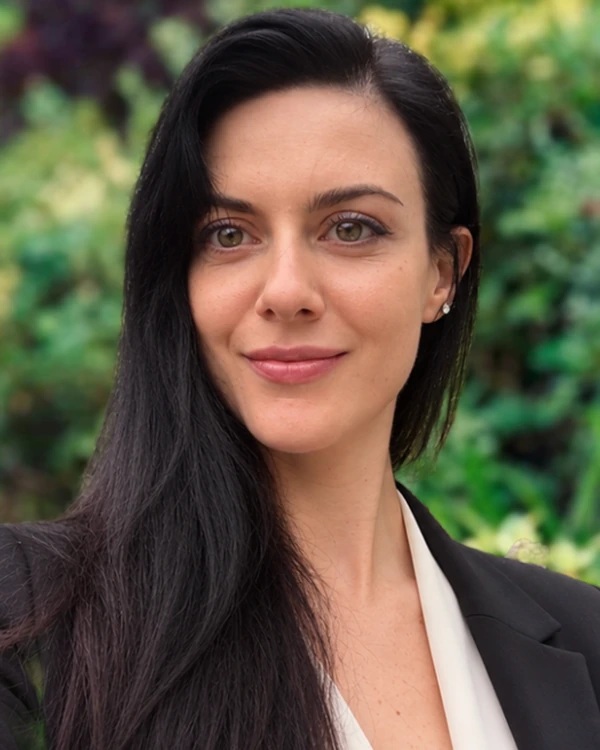
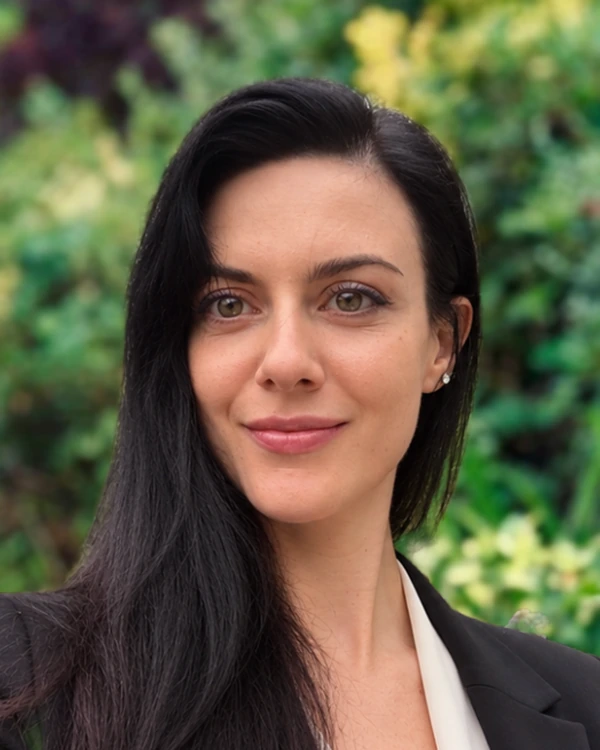
Correct natural portrait depth and clinical head-and-shoulder framing

diff --git a/app3.js b/app3.js
@@ -1,23 +1,23 @@
 const team=`${header('Meet Our Multi-Disciplinary Clinical Team','Autism Assessments Farnham brings together experienced professionals from paediatrics, psychology, speech and language therapy, occupational therapy and mental health nursing. Team members are registered with the relevant professional regulator, including HCPC, GMC or NMC as appropriate. Lisa Mayatt is the main point of contact throughout the assessment journey.')}
 <section class="section team-page">
   <div class="team-profile" id="lisa-mayatt">
-    <img src="/images/clinicians/lisa-mayatt.webp?v=20261123depth3" alt="Lisa Mayatt">
+    <img src="/images/clinicians/lisa-mayatt.webp?v=20261123depth4" alt="Lisa Mayatt">
     <div class="team-profile-copy"><div class="eyebrow">Founder & Clinical Director</div><h2>Lisa Mayatt</h2><h3>Highly Specialist Speech and Language Therapist</h3><p>Lisa founded Autism Assessments Farnham and remains the main point of contact for families throughout the assessment process. Her background includes extensive NHS and Local Authority work, ADOS-2 assessment since 2016, and training in ADI-R, 3Di and ACE. Her specialist interests include PDA and autism presentations in girls and young women. She also undertakes expert-witness and education work.</p></div>
   </div>
   <div class="team-profile" id="dr-gopal-venkat">
-    <img src="/images/clinicians/dr-gopal-venkat.webp?v=20261123depth3" alt="Dr Gopal Venkat">
+    <img src="/images/clinicians/dr-gopal-venkat.webp?v=20261123depth4" alt="Dr Gopal Venkat">
     <div class="team-profile-copy"><h2>Dr Gopal Venkat, MD, FRCPCH</h2><h3>Consultant Neurodevelopmental Paediatrician</h3><p>Dr Gopal has more than 20 years of clinical experience in neurodevelopmental paediatrics, paediatric neurology and epilepsy. His work includes Autism, ADHD and developmental coordination difficulties. He is ADOS-2 trained and provides multidisciplinary assessments for children and young people, with a neuro-affirming and evidence-based approach.</p></div>
   </div>
   <div class="team-profile" id="dr-joseph-chukwu">
-    <img src="/images/clinicians/dr-joseph-chukwu.webp?v=20261123depth3" alt="Dr Joseph Chukwu">
+    <img src="/images/clinicians/dr-joseph-chukwu.webp?v=20261123depth4" alt="Dr Joseph Chukwu">
     <div class="team-profile-copy"><h2>Dr Joseph Chukwu</h2><h3>Consultant Neurodevelopmental Paediatrician</h3><p>Joseph is an NHS community paediatrician with extensive Autism and ADHD assessment experience. He is trained in ADOS-2, ADI-R and 3Di and has worked with Autism Assessments Farnham since its launch in 2022. He supports under-18 Autism and ADHD assessment pathways.</p></div>
   </div>
   <div class="team-profile" id="dr-aimee-hayter">
-    <img src="/images/clinicians/dr-aimee-hayter.webp?v=20261123depth3" alt="Dr Aimee Hayter">
+    <img src="/images/clinicians/dr-aimee-hayter.webp?v=20261123depth4" alt="Dr Aimee Hayter">
     <div class="team-profile-copy"><h2>Dr Aimee Hayter</h2><h3>Clinical Psychologist</h3><p>Aimee has around 20 years of experience across academia, the NHS and private practice, working with neurodivergent people across the lifespan. She specialises in neuropsychology and provides psychological assessment, including ADOS-2, alongside consultation and intervention.</p></div>
   </div>
   <div class="team-profile" id="dr-daniela-di-basilio">
-    <img src="/images/clinicians/dr-daniela-di-basilio.webp?v=20261123depth3" alt="Dr Daniela Di Basilio">
+    <img src="/images/clinicians/dr-daniela-di-basilio.webp?v=20261123depth4" alt="Dr Daniela Di Basilio">
     <div class="team-profile-copy"><h2>Dr Daniela Di Basilio</h2><h3>Clinical Psychologist and Cognitive Behavioural Therapist</h3><p>Daniela has extensive experience in the assessment and treatment of a wide range of psychological and neurodevelopmental conditions. She is a qualified ADHD assessor and trained in the administration of ADOS-2 and ADI-R. Daniela jointly conducts comprehensive neurodevelopmental assessments and diagnostic formulations for children, adolescents and adults, integrating developmental history, clinical interviews and standardised assessment measures.</p><p>Alongside her clinical practice, Daniela is a Clinical Supervisor at the Priory and a Lecturer in Clinical Psychology at Lancaster University, where she teaches and supervises doctoral trainees. She is registered with the HCPC as a Practitioner Psychologist and is an accredited EMDR practitioner.</p><p>Daniela's clinical approach is evidence-based, collaborative and compassionate, with an emphasis on thorough assessment, individualised formulation and interventions tailored to each person's needs.</p></div>
   </div>
   <div class="team-profile team-profile-placeholder" id="nordette-small">
@@ -25,23 +25,23 @@ const team=`${header('Meet Our Multi-Disciplinary Clinical Team','Autism Assessm
     <div class="team-profile-copy"><div class="eyebrow">NMC Registered</div><h2>Nordette Small</h2><h3>Highly Specialist ADHD Nurse</h3><p>Nordette has a genuine passion for improving the lives of individuals and families affected by Attention Deficit Hyperactivity Disorder (ADHD). Alongside her clinical experience and specialist knowledge, Nordette is also a mother of two children diagnosed with ADHD, giving her valuable insight into the experiences of families navigating the challenges, uncertainties and emotions that can accompany an ADHD diagnosis.</p><p>Nordette strives to create a safe, supportive and non-judgemental environment where every individual feels valued, listened to and empowered to understand their ADHD and make informed decisions about their care. She believes that understanding ADHD requires more than knowing the diagnosis; it requires understanding the person and the family behind it.</p></div>
   </div>
   <div class="team-profile" id="karen-cooper">
-    <img src="/images/clinicians/karen-cooper.webp?v=20261123depth3" alt="Karen Cooper">
+    <img src="/images/clinicians/karen-cooper.webp?v=20261123depth4" alt="Karen Cooper">
     <div class="team-profile-copy"><h2>Karen Cooper</h2><h3>Highly Specialist Speech and Language Therapist & Autism Specialist</h3><p>Karen has around 25 years of experience across specialist education, the NHS and Local Authority services, including two decades in diagnostic multidisciplinary teams. She is trained in ADOS-2, ADI-R and ACE and supports joint autism assessments with children and young adults.</p></div>
   </div>
   <div class="team-profile" id="beccy-muggeridge">
-    <img src="/images/clinicians/beccy-muggeridge.webp?v=20261123depth3" alt="Beccy Muggeridge">
+    <img src="/images/clinicians/beccy-muggeridge.webp?v=20261123depth4" alt="Beccy Muggeridge">
     <div class="team-profile-copy"><h2>Beccy Muggeridge</h2><h3>Highly Specialist Speech and Language Therapist</h3><p>Beccy specialises in Autism and brain injury and has broad experience across Surrey education settings, specialist services, the NHS and multidisciplinary teams. Her roles have included The Children’s Trust, Great Ormond Street Hospital and Evelina London’s community autism assessment service.</p></div>
   </div>
   <div class="team-profile" id="deepika-sharma">
-    <img src="/images/clinicians/deepika-sharma.webp?v=20261123depth3" alt="Deepika Sharma">
+    <img src="/images/clinicians/deepika-sharma.webp?v=20261123depth4" alt="Deepika Sharma">
     <div class="team-profile-copy"><h2>Deepika Sharma</h2><h3>Specialist Occupational Therapist</h3><p>Deepika has more than 20 years of clinical experience supporting children and young people with neurodevelopmental and developmental needs. She is ADOS-2 trained, works within the multidisciplinary team, and is developing further expertise in sensory integration.</p></div>
   </div>
   <div class="team-profile" id="jess-wilson">
-    <img src="/images/clinicians/jess-wilson.webp?v=20261123depth3" alt="Jess Wilson">
+    <img src="/images/clinicians/jess-wilson.webp?v=20261123depth4" alt="Jess Wilson">
     <div class="team-profile-copy"><h2>Jess Wilson</h2><h3>Occupational Therapist</h3><p>Jess specialises in neurodevelopmental needs, sensory processing and the impact of trauma. Her experience spans mainstream and specialist schools, clinics, homes and community settings. She has contributed to NHS autism diagnostic services and supports multidisciplinary ADOS-2 assessment work.</p></div>
   </div>
   <div class="team-profile" id="sarah-grieve">
-    <img src="/images/clinicians/sarah-grieve.webp?v=20261123depth3" alt="Sarah Grieve">
+    <img src="/images/clinicians/sarah-grieve.webp?v=20261123depth4" alt="Sarah Grieve">
     <div class="team-profile-copy"><h2>Sarah Grieve</h2><h3>Specialist Speech and Language Therapy Assistant & Clinical Administrator</h3><p>Sarah combines clinical administration with speech and language therapy support, helping coordinate appointments, documentation and the assessment process. She brings NHS and Local Authority experience and supports a calm, organised and neurodiversity-affirming service.</p></div>
   </div>
   <div class="team-profile team-profile-placeholder" id="new-clinician-coming-soon">

diff --git a/app1.js b/app1.js
@@ -74,17 +74,17 @@ const home=`
     <div class="clinician-carousel-shell">
       <button class="clinician-carousel-arrow clinician-carousel-prev" type="button" aria-label="Previous clinicians">‹</button>
       <div class="clinician-row clinician-carousel" tabindex="0" aria-label="Clinical team">
-        <a class="clinician-card" href="/our-team#lisa-mayatt" data-link><img src="/images/clinicians/lisa-mayatt.webp?v=20261123depth3" alt="Lisa Mayatt"><h4>Lisa Mayatt</h4><p>Founder, Clinical Director & Highly Specialist SLT</p></a>
-        <a class="clinician-card" href="/our-team#dr-gopal-venkat" data-link><img src="/images/clinicians/dr-gopal-venkat.webp?v=20261123depth3" alt="Dr Gopal Venkat"><h4>Dr Gopal Venkat</h4><p>Consultant Neurodevelopmental Paediatrician</p></a>
-        <a class="clinician-card" href="/our-team#dr-joseph-chukwu" data-link><img src="/images/clinicians/dr-joseph-chukwu.webp?v=20261123depth3" alt="Dr Joseph Chukwu"><h4>Dr Joseph Chukwu</h4><p>Consultant Neurodevelopmental Paediatrician</p></a>
-        <a class="clinician-card" href="/our-team#dr-aimee-hayter" data-link><img src="/images/clinicians/dr-aimee-hayter.webp?v=20261123depth3" alt="Dr Aimee Hayter"><h4>Dr Aimee Hayter</h4><p>Clinical Psychologist</p></a>
-        <a class="clinician-card" href="/our-team#dr-daniela-di-basilio" data-link><img src="/images/clinicians/dr-daniela-di-basilio.webp?v=20261123depth3" alt="Dr Daniela Di Basilio"><h4>Dr Daniela Di Basilio</h4><p>Clinical Psychologist & Cognitive Behavioural Therapist</p></a>
+        <a class="clinician-card" href="/our-team#lisa-mayatt" data-link><img src="/images/clinicians/lisa-mayatt.webp?v=20261123depth4" alt="Lisa Mayatt"><h4>Lisa Mayatt</h4><p>Founder, Clinical Director & Highly Specialist SLT</p></a>
+        <a class="clinician-card" href="/our-team#dr-gopal-venkat" data-link><img src="/images/clinicians/dr-gopal-venkat.webp?v=20261123depth4" alt="Dr Gopal Venkat"><h4>Dr Gopal Venkat</h4><p>Consultant Neurodevelopmental Paediatrician</p></a>
+        <a class="clinician-card" href="/our-team#dr-joseph-chukwu" data-link><img src="/images/clinicians/dr-joseph-chukwu.webp?v=20261123depth4" alt="Dr Joseph Chukwu"><h4>Dr Joseph Chukwu</h4><p>Consultant Neurodevelopmental Paediatrician</p></a>
+        <a class="clinician-card" href="/our-team#dr-aimee-hayter" data-link><img src="/images/clinicians/dr-aimee-hayter.webp?v=20261123depth4" alt="Dr Aimee Hayter"><h4>Dr Aimee Hayter</h4><p>Clinical Psychologist</p></a>
+        <a class="clinician-card" href="/our-team#dr-daniela-di-basilio" data-link><img src="/images/clinicians/dr-daniela-di-basilio.webp?v=20261123depth4" alt="Dr Daniela Di Basilio"><h4>Dr Daniela Di Basilio</h4><p>Clinical Psychologist & Cognitive Behavioural Therapist</p></a>
         <a class="clinician-card clinician-card-placeholder" href="/our-team#nordette-small" data-link><div class="clinician-initials" aria-hidden="true">NS</div><h4>Nordette Small</h4><p>Highly Specialist ADHD Nurse</p></a>
-        <a class="clinician-card" href="/our-team#karen-cooper" data-link><img src="/images/clinicians/karen-cooper.webp?v=20261123depth3" alt="Karen Cooper"><h4>Karen Cooper</h4><p>Highly Specialist SLT & Autism Specialist</p></a>
-        <a class="clinician-card" href="/our-team#beccy-muggeridge" data-link><img src="/images/clinicians/beccy-muggeridge.webp?v=20261123depth3" alt="Beccy Muggeridge"><h4>Beccy Muggeridge</h4><p>Highly Specialist Speech & Language Therapist</p></a>
-        <a class="clinician-card" href="/our-team#deepika-sharma" data-link><img src="/images/clinicians/deepika-sharma.webp?v=20261123depth3" alt="Deepika Sharma"><h4>Deepika Sharma</h4><p>Specialist Occupational Therapist</p></a>
-        <a class="clinician-card" href="/our-team#jess-wilson" data-link><img src="/images/clinicians/jess-wilson.webp?v=20261123depth3" alt="Jess Wilson"><h4>Jess Wilson</h4><p>Occupational Therapist</p></a>
-        <a class="clinician-card" href="/our-team#sarah-grieve" data-link><img src="/images/clinicians/sarah-grieve.webp?v=20261123depth3" alt="Sarah Grieve"><h4>Sarah Grieve</h4><p>Specialist SLT Assistant & Clinical Administrator</p></a>
+        <a class="clinician-card" href="/our-team#karen-cooper" data-link><img src="/images/clinicians/karen-cooper.webp?v=20261123depth4" alt="Karen Cooper"><h4>Karen Cooper</h4><p>Highly Specialist SLT & Autism Specialist</p></a>
+        <a class="clinician-card" href="/our-team#beccy-muggeridge" data-link><img src="/images/clinicians/beccy-muggeridge.webp?v=20261123depth4" alt="Beccy Muggeridge"><h4>Beccy Muggeridge</h4><p>Highly Specialist Speech & Language Therapist</p></a>
+        <a class="clinician-card" href="/our-team#deepika-sharma" data-link><img src="/images/clinicians/deepika-sharma.webp?v=20261123depth4" alt="Deepika Sharma"><h4>Deepika Sharma</h4><p>Specialist Occupational Therapist</p></a>
+        <a class="clinician-card" href="/our-team#jess-wilson" data-link><img src="/images/clinicians/jess-wilson.webp?v=20261123depth4" alt="Jess Wilson"><h4>Jess Wilson</h4><p>Occupational Therapist</p></a>
+        <a class="clinician-card" href="/our-team#sarah-grieve" data-link><img src="/images/clinicians/sarah-grieve.webp?v=20261123depth4" alt="Sarah Grieve"><h4>Sarah Grieve</h4><p>Specialist SLT Assistant & Clinical Administrator</p></a>
       </div>
       <button class="clinician-carousel-arrow clinician-carousel-next" type="button" aria-label="Next clinicians">›</button>
     </div>

diff --git a/index.html b/index.html
@@ -1,5 +1,5 @@
 <!doctype html>
-<html lang="en"><head><meta charset="utf-8"><meta name="viewport" content="width=device-width,initial-scale=1"><meta name="robots" content="noindex,nofollow"><meta name="description" content="Private Autism and ADHD assessments in Farnham, Surrey."><meta property="og:type" content="website"><meta property="og:site_name" content="Autism & ADHD Assessments Farnham"><meta name="twitter:card" content="summary_large_image"><link rel="canonical" href="https://www.autismassessmentsfarnham.co.uk/"><title>Autism & ADHD Assessments Farnham — Development Preview</title><link rel="preconnect" href="https://fonts.googleapis.com"><link rel="preconnect" href="https://fonts.gstatic.com" crossorigin><link href="https://fonts.googleapis.com/css2?family=DM+Sans:wght@400;500;600;700&family=Outfit:wght@300;400;500;600&family=Nunito+Sans:wght@400;500;600;700&display=swap" rel="stylesheet"><link rel="stylesheet" href="/styles.css?v=20261123depth3"><link rel="stylesheet" href="/portrait-polish.css?v=20261123depth2"></head><body><div class="preview-bar">DEVELOPMENT PREVIEW — NOT THE LIVE WEBSITE</div><header class="site-header"><a href="/" class="brand" data-link aria-label="Autism & ADHD Assessments Farnham home"><svg class="brand-logo-svg" viewBox="0 0 690 170" role="img" aria-label="Autism & ADHD Assessments Farnham">
+<html lang="en"><head><meta charset="utf-8"><meta name="viewport" content="width=device-width,initial-scale=1"><meta name="robots" content="noindex,nofollow"><meta name="description" content="Private Autism and ADHD assessments in Farnham, Surrey."><meta property="og:type" content="website"><meta property="og:site_name" content="Autism & ADHD Assessments Farnham"><meta name="twitter:card" content="summary_large_image"><link rel="canonical" href="https://www.autismassessmentsfarnham.co.uk/"><title>Autism & ADHD Assessments Farnham — Development Preview</title><link rel="preconnect" href="https://fonts.googleapis.com"><link rel="preconnect" href="https://fonts.gstatic.com" crossorigin><link href="https://fonts.googleapis.com/css2?family=DM+Sans:wght@400;500;600;700&family=Outfit:wght@300;400;500;600&family=Nunito+Sans:wght@400;500;600;700&display=swap" rel="stylesheet"><link rel="stylesheet" href="/styles.css?v=20261123depth4"><link rel="stylesheet" href="/portrait-polish.css?v=20261123depth2"></head><body><div class="preview-bar">DEVELOPMENT PREVIEW — NOT THE LIVE WEBSITE</div><header class="site-header"><a href="/" class="brand" data-link aria-label="Autism & ADHD Assessments Farnham home"><svg class="brand-logo-svg" viewBox="0 0 690 170" role="img" aria-label="Autism & ADHD Assessments Farnham">
   <defs>
     <linearGradient id="goldGrad" x1="0%" y1="0%" x2="100%" y2="100%">
       <stop offset="0%" stop-color="#FFE186"/>
@@ -85,4 +85,4 @@
   <div><strong>Start here</strong><a href="/adult-pre-booking" data-link>Adult pre-booking</a><a href="/child-pre-booking" data-link>Child / young person pre-booking</a><a href="/free-consultation" data-link>Free consultation</a><a href="/contact" data-link>Contact us</a></div>
   <div><strong>Contact</strong><a href="mailto:lisa@autismassessmentsfarnham.co.uk">lisa@autismassessmentsfarnham.co.uk</a><a href="tel:+447387697876">07387 697876</a><span>South Farnham, Surrey</span><a href="/privacy-policy" data-link>Privacy & data handling</a></div>
   <div class="footer-bottom"><span>© 2026 Autism & ADHD Assessments Farnham. All rights reserved.</span><span>Web design by <a href="https://www.promovo.co.uk/" target="_blank" rel="noopener">Promovo Creative Marketing</a></span></div>
-</footer><script src="/app1.js?v=20261123depth3"></script><script src="/app2.js?v=20261123depth3"></script><script src="/app3.js?v=20261123depth3"></script><script src="/app4.js?v=20261123depth3"></script><script src="/portrait-polish.js?v=20261123framing1"></script></body></html>
+</footer><script src="/app1.js?v=20261123depth4"></script><script src="/app2.js?v=20261123depth4"></script><script src="/app3.js?v=20261123depth4"></script><script src="/app4.js?v=20261123depth4"></script><script src="/portrait-polish.js?v=20261123framing1"></script></body></html>
